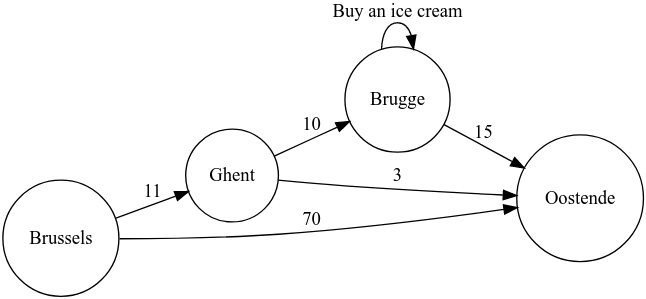
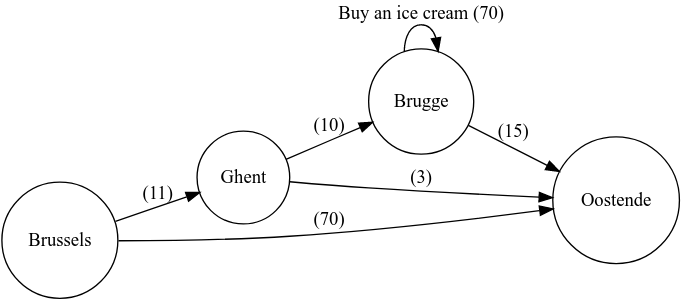
fixImage

diff --git a/images/readme.md b/images/readme.md
@@ -11,12 +11,12 @@ digraph finite_state_machine {
     node [shape = circle ]; Brugge
     node [shape = circle ]; Oostende
 
-    Brussels -> Ghent [ label = "11" ];
-    Ghent  -> Brugge [ label = "10" ];
-    Brugge  -> Oostende  [ label = "15" ];
-    Ghent  -> Oostende [ label = "3" ];
-    Brussels  -> Oostende [ label = "70" ];
-    Brugge  -> Brugge [ label = "Buy an ice cream" ];
+    Brussels -> Ghent [ label = "(11)" ];
+    Ghent  -> Brugge [ label = "(10)" ];
+    Brugge  -> Oostende  [ label = "(15)" ];
+    Ghent  -> Oostende [ label = "(3)" ];
+    Brussels  -> Oostende [ label = "(70)" ];
+    Brugge  -> Brugge [ label = "Buy an ice cream (70)" ];
 
 }
 ```s
